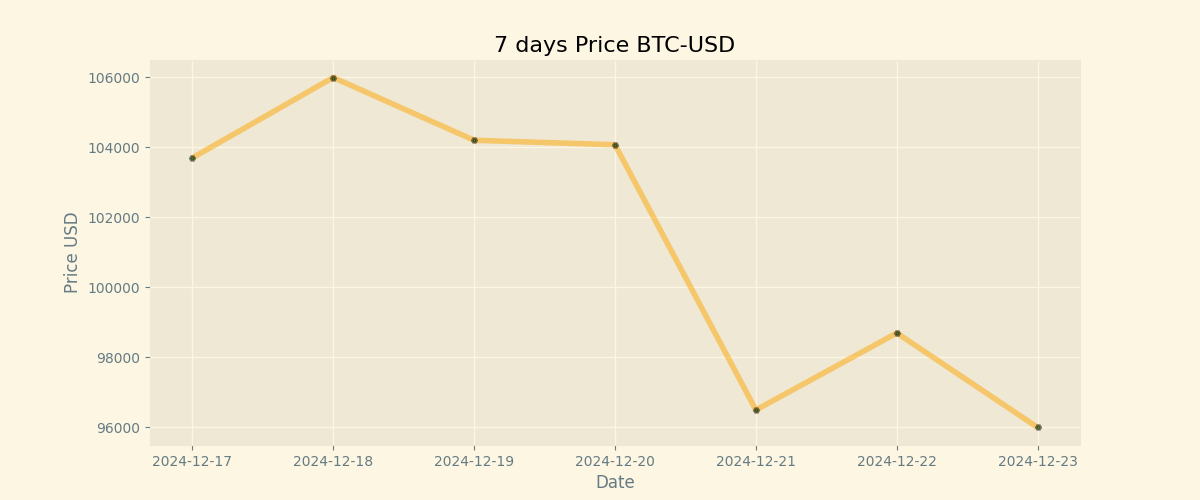
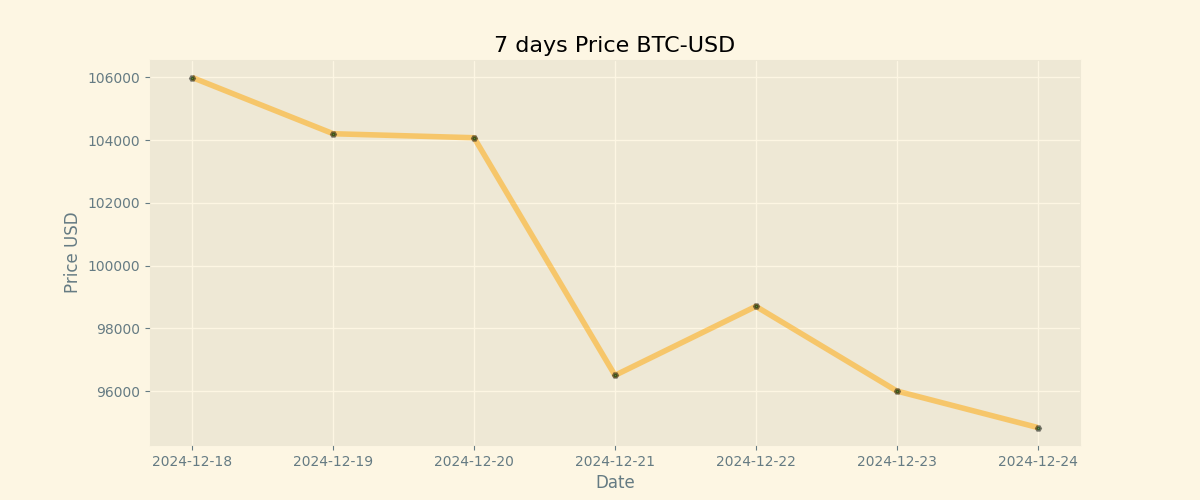
Duty Updates 2024-12-24

diff --git a/README.md b/README.md
@@ -9,8 +9,8 @@
 
 | Currency | Price           |
 | -------- | --------------- |
-| **BTC**  | **$ 96000.0** |
-| **ETH**  | **$ 3360.0** |
+| **BTC**  | **$ 94837.65** |
+| **ETH**  | **$ 3384.45** |
 
 ## BTC chart
 
